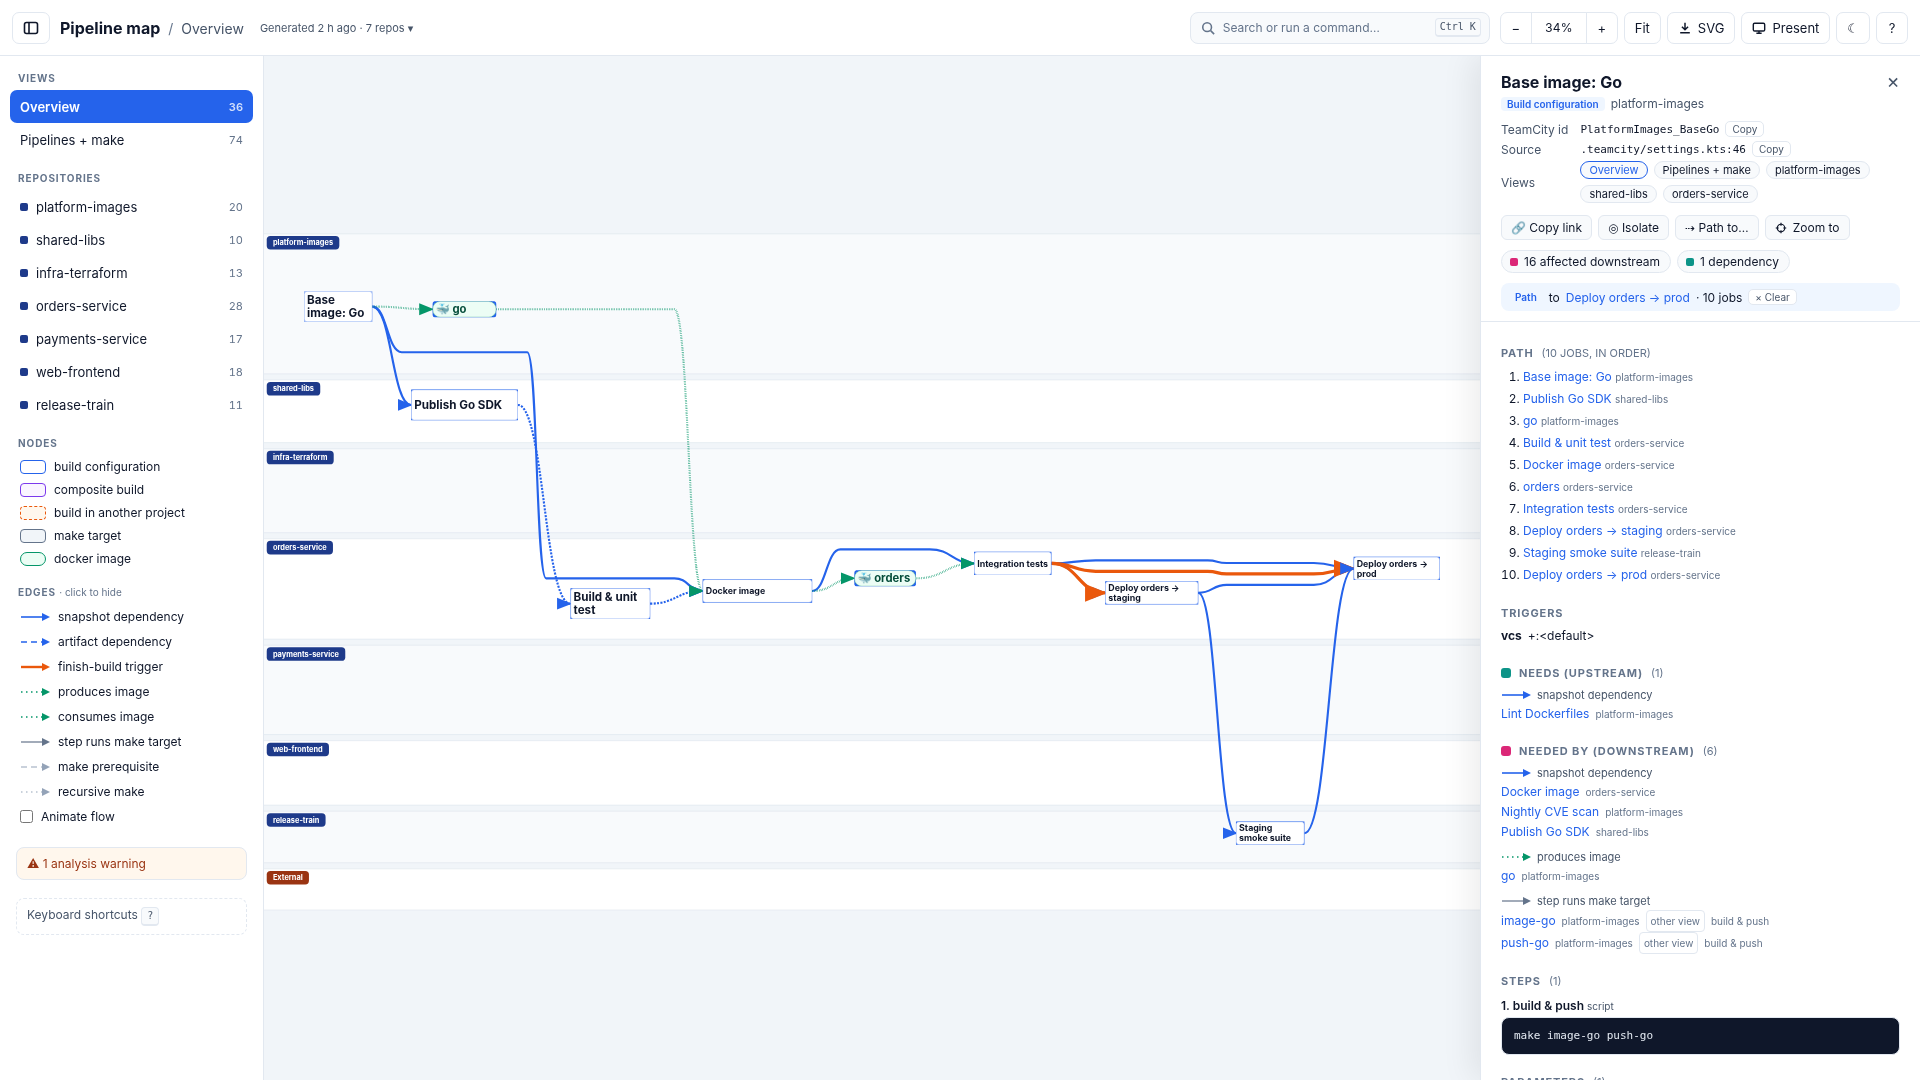
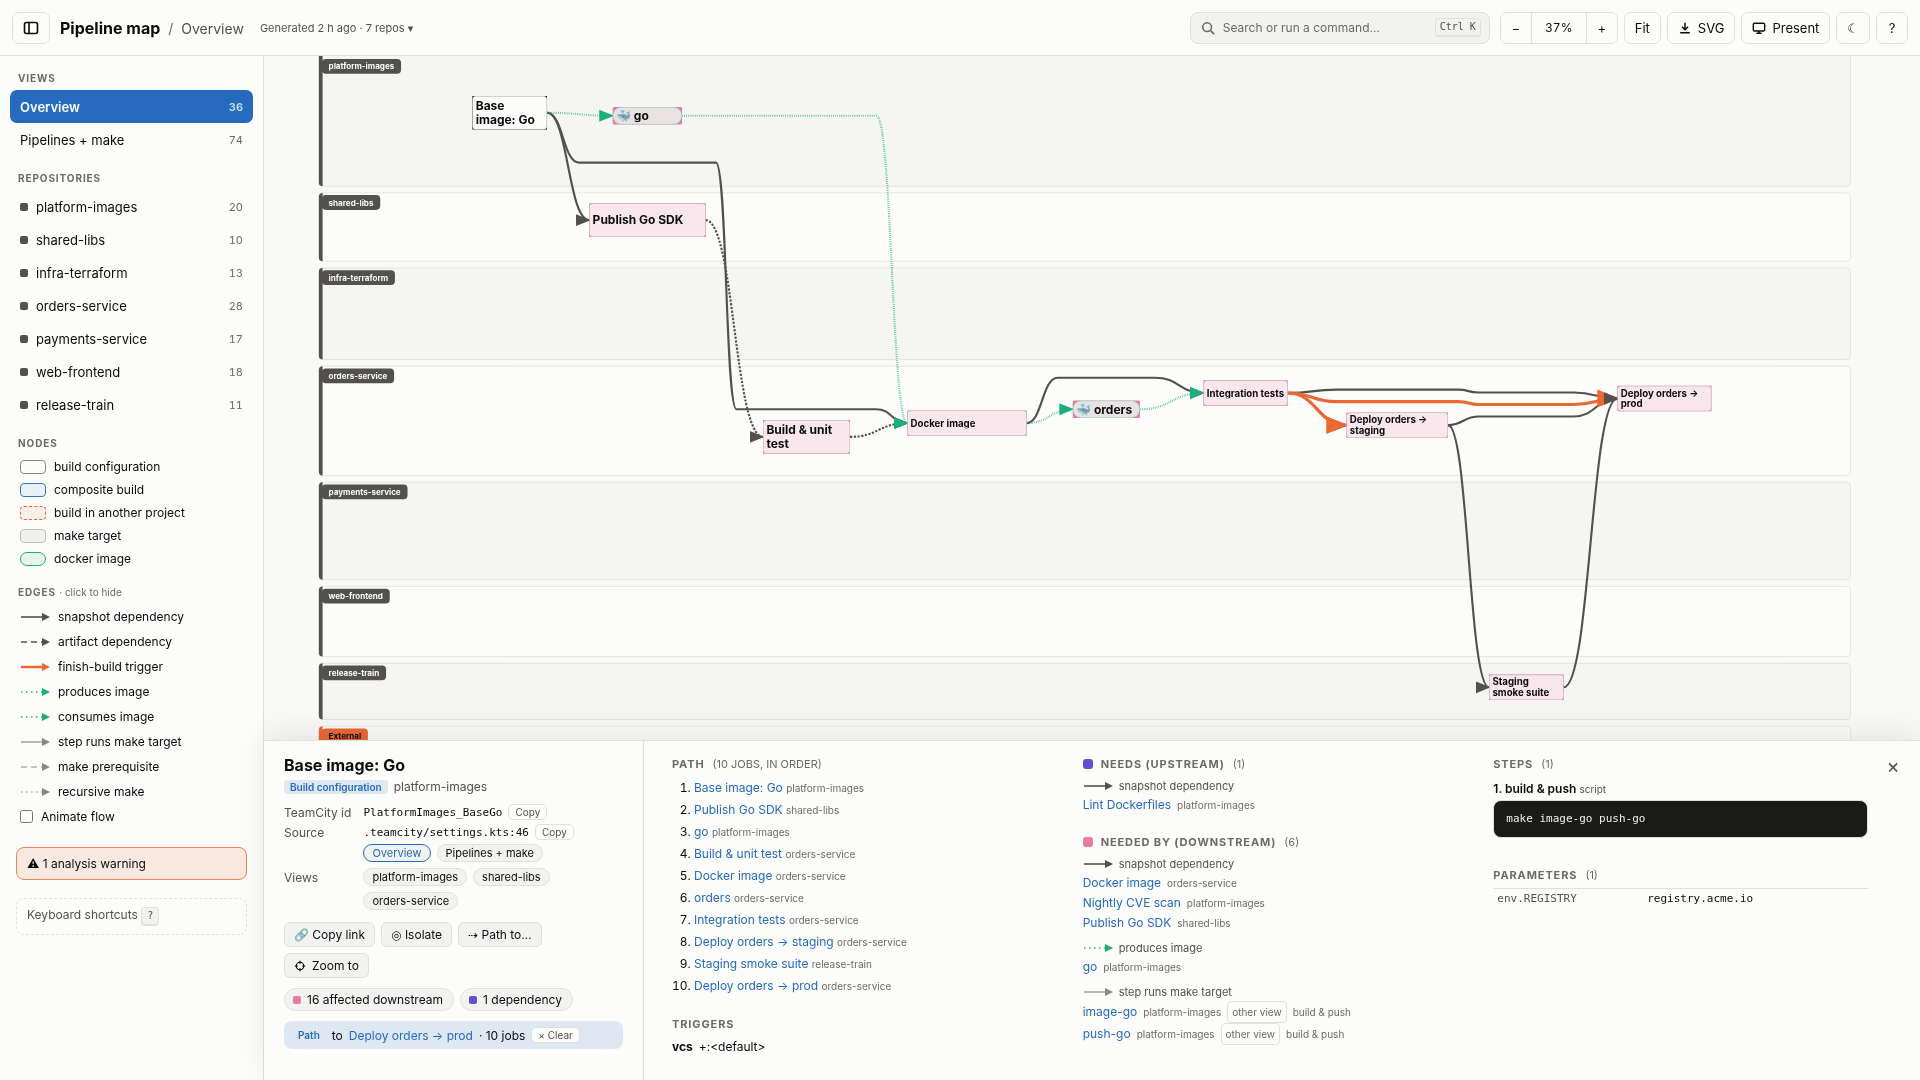
docs: regenerate screenshots for the new themes and bottom panel

diff --git a/docs/screenshots/README.md b/docs/screenshots/README.md
@@ -10,7 +10,7 @@ Seven repositories, their TeamCity build configurations, snapshot and artifact d
 
 ## Blast radius of a base image change
 
-A CVE lands in the Go base image: what rebuilds, what gets redeployed, and through which links? Clicking a node colours its upstream green and its downstream red. `I` hides everything else. The URL now points at this exact view, ready to paste into the incident channel.
+A CVE lands in the Go base image: what rebuilds, what gets redeployed, and through which links? Clicking a node rings what it needs in violet and what depends on it in magenta. `B`, `D` and `I` hide everything else. The URL now points at this exact view, ready to paste into the incident channel.
 
 ![Blast radius of a base image change](blast-radius.png)
 
